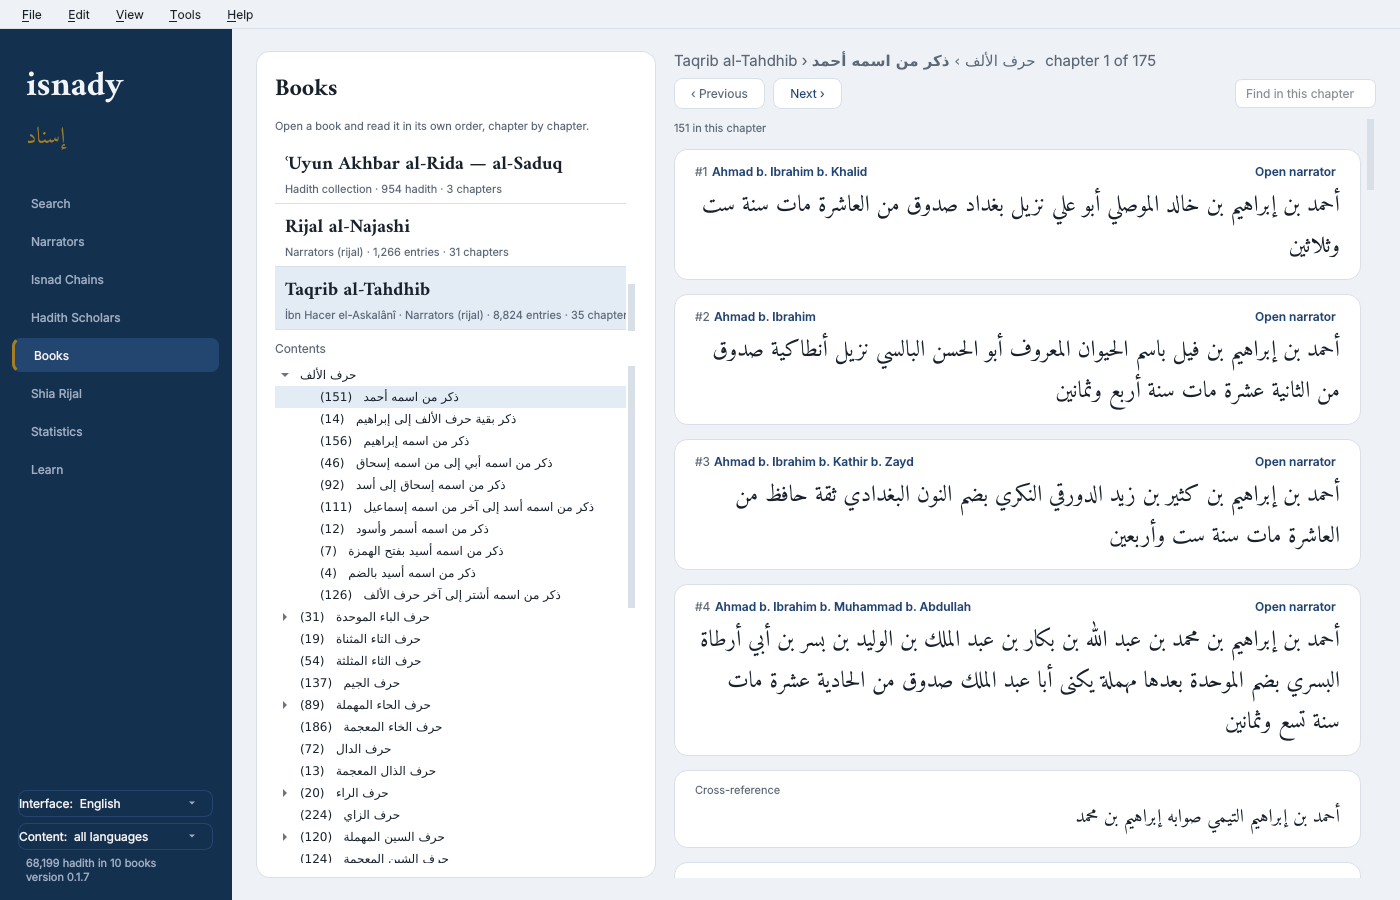
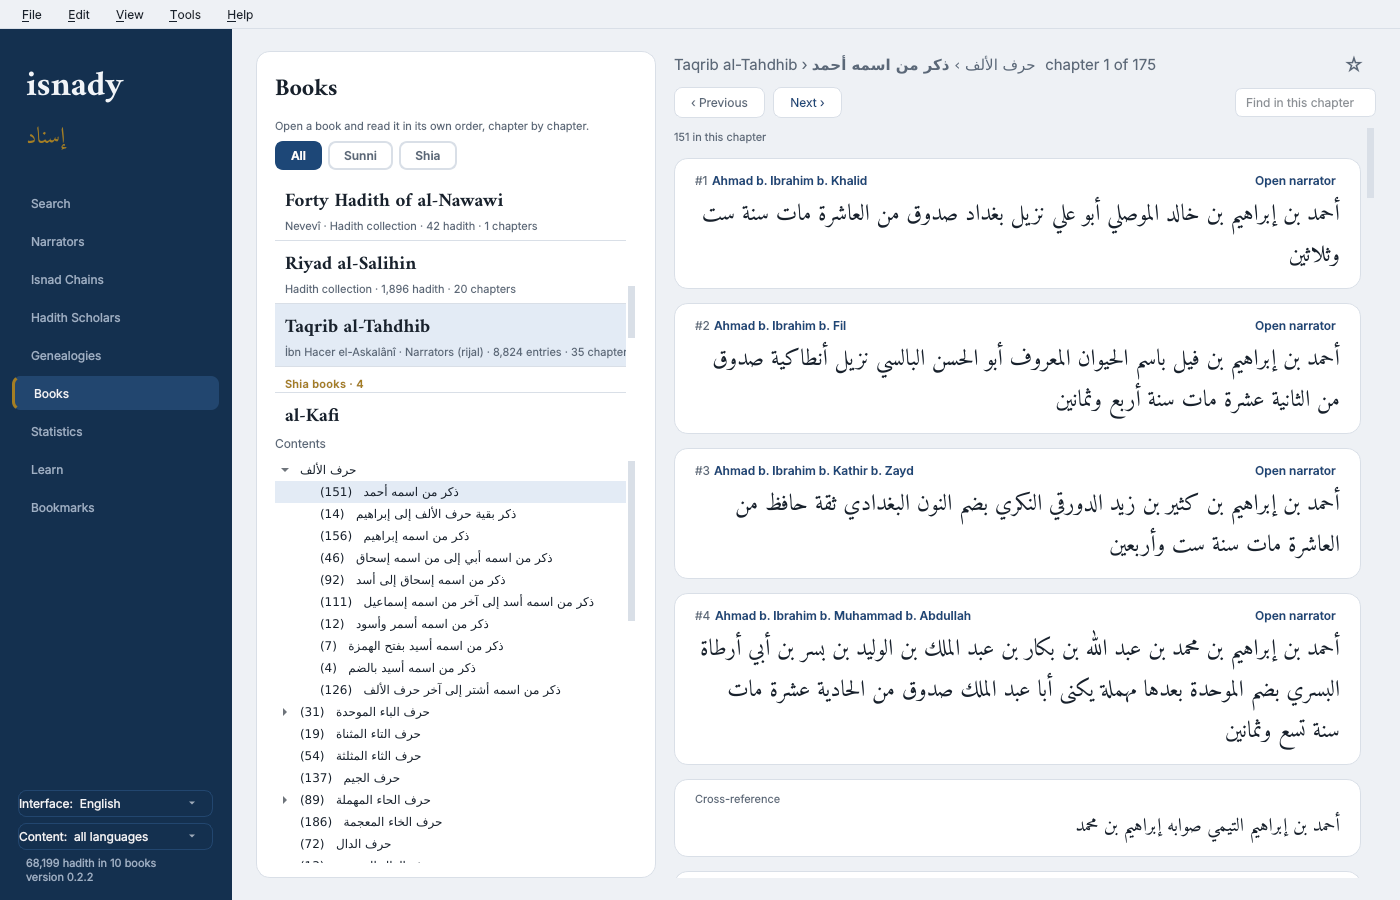
v0.2.2: genealogies, bookmarks and a colourful Learn page
Genealogies (new section in the sidebar, iy tree): the prophets from Adam to Muhammad (peace be upon him) and Quraysh with the Prophet's family, written from the Sunni sources and marked by their strength - the Qur'an where it names a relation, al-Bukhari for the lineage up to 'Adnan, Ibn Hisham, Ibn Sa'd, al-Tabari, Ibn Kathir, Mus'ab al-Zubayri and Ibn Hazm; the names between Adam and Ibrahim and between Isma'il and 'Adnan are said to be the historians' only; gaps drawn dashed, disputed links in a dashed box with both reports. A narrator's family read from the narrators' own names (1,147 father-son links) and his line of learning from the imported chains.

Bookmarks (new section, iy bookmark): a star on every hadith, narrator, scholar, glossary term, book chapter and genealogy node; nested folders, one bookmark in many folders by drag and drop, notes, search, export and import as JSON; stable references survive a reimport.

Learn in colour: each category has its own colour and sign, the short definition in a tinted box, related terms coloured by category. Interface texts 1,298, Turkish and Arabic complete.

README (GitHub, PyPI, npm): every screenshot retaken; tools/make_screenshots.py also makes the Genealogies and Bookmarks pictures and puts the user's own bookmarks back. Handoff and TODO updated.

diff --git a/js/index.js b/js/index.js
@@ -6,7 +6,7 @@
  * database (used by both the Python and JavaScript packages) exists.
  */
 
-export const version = "0.2.1";
+export const version = "0.2.2";
 export const name = "isnady";
 
 /** Returns basic package information. */

diff --git a/tools/make_screenshots.py b/tools/make_screenshots.py
@@ -182,6 +182,55 @@ w.learn_page._set_lang("en")
 w.learn_page.show_term("mursal")
 settle()
 w.grab().save(D + "learn.png")
+
+# Genealogies: the prophets around Ibrahim; a narrator's family (Salim b. 'Abdullah b. 'Umar)
+genealogy = w.genealogy_page
+w.nav.setCurrentRow(ROW["genealogy"])
+settle(1500)
+genealogy.show_view("prophets")
+genealogy.find.setText("Ibrahim")
+genealogy._find()
+settle(800)
+genealogy.view.centre("ibrahim")
+settle(400)
+w.grab().save(D + "genealogy.png")
+conn = w.search_page.connection()
+salim = conn.execute("SELECT id FROM persons WHERE name_ar LIKE 'سالم بن عبد الله بن عمر بن الخطاب%'").fetchone()
+if salim:
+    genealogy.find.clear()
+    genealogy.show_view("family", salim[0])
+    settle(1200)
+    genealogy.view.centre(f"p{salim[0]}")
+    settle(400)
+    w.grab().save(D + "genealogy-family.png")
+
+# Bookmarks: a few marked things in folders — the user's own bookmarks are put back afterwards
+from isnady.core import bookmarks  # noqa: E402
+from isnady.gui.bookmarks_page import HUB  # noqa: E402
+
+kept = bookmarks.path().read_bytes() if bookmarks.path().exists() else None
+store = bookmarks.Store()
+first = conn.execute("""SELECT h.id FROM hadiths h JOIN collections c ON c.id = h.collection_id
+                        WHERE c.key = 'bukhari' AND h.number = '1'""").fetchone()
+intention = store.ensure_path("Intention/Deeds")
+if first:
+    store.add("hadith", *bookmarks.hadith_ref(conn, first[0]), folder=intention.id,
+              note="Deeds are judged by intentions")
+if salim:
+    store.add("narrator", *bookmarks.narrator_ref(conn, salim[0]), folder=store.ensure_path("Families of narrators").id)
+store.add("scholar", "bukhari", "al-Bukhari", "محمد بن إسماعيل البخاري")
+store.add("term", "mursal", "mursal", "مرسل", folder=intention.id)
+store.save()
+HUB.changed.emit()
+w.nav.setCurrentRow(ROW["bookmarks"])
+settle(1200)
+w.grab().save(D + "bookmarks.png")
+if kept is None:
+    bookmarks.path().unlink()
+else:
+    bookmarks.path().write_bytes(kept)
+HUB.changed.emit()
+
 prefs("Reading text", "preferences.png", (900, 660))
 prefs("Data sources", "data-sources.png", (1100, 900))
 prefs("Books and languages", "books-languages.png", (1000, 640))

diff --git a/src/isnady/gui/genealogy_page.py b/src/isnady/gui/genealogy_page.py
@@ -319,10 +319,19 @@ class GenealogyPage(QWidget):
             self.find.setPlaceholderText(tr("Find in this tree: Ibrahim, Musa, Hashim, Ali …"))
             self.tree = core.written(key)
             self.view.show_tree(self.tree)
-            self.caption.setText(legend + "<br>" + tr("Sources: Ibn Hisham, al-Sira al-Nabawiyya; Ibn Sa'd, al-Tabaqat "
-                                                      "al-Kubra; al-Tabari, Tarikh; Ibn Kathir, Qisas al-Anbiya' and "
-                                                      "al-Bidaya wa-l-Nihaya; the Qur'an where it names a relation. "
-                                                      "Click a name for what the sources say."))
+            if key == "prophets":
+                about = tr("Sources: the Qur'an where it names a relation; al-Bukhari, Sahih (Manaqib al-Ansar: the "
+                           "Prophet's lineage up to 'Adnan); Ibn Hisham, al-Sira; Ibn Sa'd, al-Tabaqat; al-Tabari, "
+                           "Tarikh; Ibn Kathir, al-Bidaya wa-l-Nihaya. The names between Adam and Ibrahim and between "
+                           "Isma'il and 'Adnan are the historians'; they took them partly from the People of the Book, "
+                           "and neither the Qur'an nor an authentic hadith gives them. Click a name for what the "
+                           "sources say.")
+            else:
+                about = tr("Sources: Ibn Hisham, al-Sira; Ibn Sa'd, al-Tabaqat; Mus'ab al-Zubayri, Nasab Quraysh; "
+                           "Ibn Hazm, Jamharat Ansab al-'Arab. The line of the Prophet's family ﷺ down to the Imams "
+                           "is recorded by the Sunni genealogists too; that they are Imams is the Shia's belief and "
+                           "is shown as theirs. Click a name for what the sources say.")
+            self.caption.setText(legend + "<br>" + about)
             self._show_node(self.tree.nodes[self.tree.root])
             return
         self.find.setPlaceholderText(tr("A narrator: name, kunya or nisba — Arabic or Latin letters"))

diff --git a/src/isnady/__init__.py b/src/isnady/__init__.py
@@ -1,4 +1,4 @@
 """isnady — hadith search built around the isnad."""
 
-__version__ = "0.2.1"
+__version__ = "0.2.2"
 APP_NAME = "isnady"

diff --git a/README.md b/README.md
@@ -7,12 +7,12 @@
 
 <p align="center">
   <a href="https://pypi.org/project/isnady/">
-    <img src="https://img.shields.io/badge/PyPI-v0.2.1-1D4777?style=for-the-badge&logo=pypi&logoColor=white" alt="PyPI">
+    <img src="https://img.shields.io/badge/PyPI-v0.2.2-1D4777?style=for-the-badge&logo=pypi&logoColor=white" alt="PyPI">
   </a>
   <img src="https://img.shields.io/pypi/pyversions/isnady?style=for-the-badge&color=A47E24&logo=python&logoColor=white" alt="Python">
   <img src="https://img.shields.io/badge/Platform-Windows%20%7C%20Linux%20%7C%20macOS-5B6878?style=for-the-badge" alt="Platform">
   <a href="https://www.npmjs.com/package/isnady">
-    <img src="https://img.shields.io/badge/npm-v0.2.1-14304F?style=for-the-badge&logo=npm" alt="npm">
+    <img src="https://img.shields.io/badge/npm-v0.2.2-14304F?style=for-the-badge&logo=npm" alt="npm">
   </a>
   <a href="https://github.com/bayramkotan/isnady-data">
     <img src="https://img.shields.io/badge/data-isnady--data-2E6B4F?style=for-the-badge&logo=github" alt="isnady-data">
@@ -44,7 +44,7 @@
   <img src="https://raw.githubusercontent.com/bayramkotan/isnady/main/assets/screenshots/search-arabic.png" alt="Searching النيات finds بالنيات in Sahih al-Bukhari 1, with the chain above the text" width="850">
 </p>
 
-> **Pre-alpha (0.2.1).** Search, chains of transmission, narrators, books, scholars, statistics and
+> **Pre-alpha (0.2.2).** Search, chains of transmission, narrators, books, scholars, statistics and
 > the glossary work today, Sunni and Shia, on data you import in one click. Everything is built in
 > the open, one piece at a time.
 
@@ -585,10 +585,20 @@ Four trees, drawn so they can be zoomed, moved and clicked (**Genealogies** in t
 
 | Tree | What it shows |
 |---|---|
-| **The prophets** | From Adam to Muhammad ﷺ as the classical historians give it — Ibn Hisham, Ibn Sa'd, al-Tabari, Ibn Kathir: Nuh, Ibrahim and his sons, the prophets of the Children of Israel, the line of Isma'il to 'Adnan and on to the Prophet ﷺ. A link whose generations are not known is drawn dashed; a report the sources differ on has a dashed box and says so |
+| **The prophets** | From Adam to Muhammad ﷺ as the Qur'an, al-Bukhari and the classical historians give it — Ibn Hisham, Ibn Sa'd, al-Tabari, Ibn Kathir: Nuh, Ibrahim and his sons, the prophets of the Children of Israel, the line of Isma'il to 'Adnan and on to the Prophet ﷺ. A link whose generations are not known is drawn dashed; a report the sources differ on has a dashed box and says so |
 | **Quraysh and the Prophet's family** | From Ka'b b. Lu'ayy: the Prophet's family ﷺ, the lineages of the four caliphs joining his, the Umayyads, and the Imams of the Shia |
 | **A narrator's family** | Read from the narrators' own names: "X b. Y b. Z" is the son of "Y b. Z" when exactly one narrator of that name, of the same tradition and of an earlier or the same generation, is found — over a thousand such links in the Taqrib and al-Najashi (Ibn 'Umar's sons and grandsons, the family of al-Zubayr …). A reading of the names, said so on the page |
 | **A narrator's line of learning** | His teachers above him and theirs, his students below him and theirs, the most frequent at each step, counted from the imported chains |
+
+**Where the written trees come from.** Sunni sources, each link marked with how strong its source is: the Qur'an
+where it names a relation (Ibrahim's sons Isma'il and Ishaq, Ya'qub …); al-Bukhari's *Sahih* (Manaqib al-Ansar,
+the Prophet's lineage ﷺ up to 'Adnan, on which the scholars agree); the sira and history works (Ibn Hisham, Ibn
+Sa'd, al-Tabari, Ibn Kathir); the genealogists of Quraysh (Mus'ab al-Zubayri, Ibn Hazm). The names between Adam
+and Ibrahim and between Isma'il and 'Adnan are the historians' only — they took them partly from the People of the
+Book, and neither the Qur'an nor an authentic hadith gives them; the page says so on those names. The Imams of the
+Shia are shown as the line of the Prophet's family ﷺ that the Sunni genealogists record too; that they are Imams
+is the Shia's belief, shown as theirs (where the Sunni historians differ — a son of al-Hasan al-'Askari — the box
+is dashed and both are given).
 
 Click a name for what the sources say about it; a narrator opens on the Narrators page, which has the links to
 his family and his line of learning too. `iy tree prophets`, `iy tree prophets Musa`, `iy tree family "Ibn

diff --git a/js/README.md b/js/README.md
@@ -8,12 +8,12 @@
 
 <p align="center">
   <a href="https://pypi.org/project/isnady/">
-    <img src="https://img.shields.io/badge/PyPI-v0.2.1-1D4777?style=for-the-badge&logo=pypi&logoColor=white" alt="PyPI">
+    <img src="https://img.shields.io/badge/PyPI-v0.2.2-1D4777?style=for-the-badge&logo=pypi&logoColor=white" alt="PyPI">
   </a>
   <img src="https://img.shields.io/pypi/pyversions/isnady?style=for-the-badge&color=A47E24&logo=python&logoColor=white" alt="Python">
   <img src="https://img.shields.io/badge/Platform-Windows%20%7C%20Linux%20%7C%20macOS-5B6878?style=for-the-badge" alt="Platform">
   <a href="https://www.npmjs.com/package/isnady">
-    <img src="https://img.shields.io/badge/npm-v0.2.1-14304F?style=for-the-badge&logo=npm" alt="npm">
+    <img src="https://img.shields.io/badge/npm-v0.2.2-14304F?style=for-the-badge&logo=npm" alt="npm">
   </a>
   <a href="https://github.com/bayramkotan/isnady-data">
     <img src="https://img.shields.io/badge/data-isnady--data-2E6B4F?style=for-the-badge&logo=github" alt="isnady-data">
@@ -45,7 +45,7 @@
   <img src="https://raw.githubusercontent.com/bayramkotan/isnady/main/assets/screenshots/search-arabic.png" alt="Searching النيات finds بالنيات in Sahih al-Bukhari 1, with the chain above the text" width="850">
 </p>
 
-> **Pre-alpha (0.2.1).** Search, chains of transmission, narrators, books, scholars, statistics and
+> **Pre-alpha (0.2.2).** Search, chains of transmission, narrators, books, scholars, statistics and
 > the glossary work today, Sunni and Shia, on data you import in one click. Everything is built in
 > the open, one piece at a time.
 
@@ -599,10 +599,20 @@ Four trees, drawn so they can be zoomed, moved and clicked (**Genealogies** in t
 
 | Tree | What it shows |
 |---|---|
-| **The prophets** | From Adam to Muhammad ﷺ as the classical historians give it — Ibn Hisham, Ibn Sa'd, al-Tabari, Ibn Kathir: Nuh, Ibrahim and his sons, the prophets of the Children of Israel, the line of Isma'il to 'Adnan and on to the Prophet ﷺ. A link whose generations are not known is drawn dashed; a report the sources differ on has a dashed box and says so |
+| **The prophets** | From Adam to Muhammad ﷺ as the Qur'an, al-Bukhari and the classical historians give it — Ibn Hisham, Ibn Sa'd, al-Tabari, Ibn Kathir: Nuh, Ibrahim and his sons, the prophets of the Children of Israel, the line of Isma'il to 'Adnan and on to the Prophet ﷺ. A link whose generations are not known is drawn dashed; a report the sources differ on has a dashed box and says so |
 | **Quraysh and the Prophet's family** | From Ka'b b. Lu'ayy: the Prophet's family ﷺ, the lineages of the four caliphs joining his, the Umayyads, and the Imams of the Shia |
 | **A narrator's family** | Read from the narrators' own names: "X b. Y b. Z" is the son of "Y b. Z" when exactly one narrator of that name, of the same tradition and of an earlier or the same generation, is found — over a thousand such links in the Taqrib and al-Najashi (Ibn 'Umar's sons and grandsons, the family of al-Zubayr …). A reading of the names, said so on the page |
 | **A narrator's line of learning** | His teachers above him and theirs, his students below him and theirs, the most frequent at each step, counted from the imported chains |
+
+**Where the written trees come from.** Sunni sources, each link marked with how strong its source is: the Qur'an
+where it names a relation (Ibrahim's sons Isma'il and Ishaq, Ya'qub …); al-Bukhari's *Sahih* (Manaqib al-Ansar,
+the Prophet's lineage ﷺ up to 'Adnan, on which the scholars agree); the sira and history works (Ibn Hisham, Ibn
+Sa'd, al-Tabari, Ibn Kathir); the genealogists of Quraysh (Mus'ab al-Zubayri, Ibn Hazm). The names between Adam
+and Ibrahim and between Isma'il and 'Adnan are the historians' only — they took them partly from the People of the
+Book, and neither the Qur'an nor an authentic hadith gives them; the page says so on those names. The Imams of the
+Shia are shown as the line of the Prophet's family ﷺ that the Sunni genealogists record too; that they are Imams
+is the Shia's belief, shown as theirs (where the Sunni historians differ — a son of al-Hasan al-'Askari — the box
+is dashed and both are given).
 
 Click a name for what the sources say about it; a narrator opens on the Narrators page, which has the links to
 his family and his line of learning too. `iy tree prophets`, `iy tree prophets Musa`, `iy tree family "Ibn

diff --git a/CHANGELOG.md b/CHANGELOG.md
@@ -3,7 +3,7 @@
 Every release of isnady carries one version number on GitHub, PyPI and npm. The text of each GitHub Release
 is taken from its section here.
 
-## [Unreleased]
+## [0.2.2] — 2026-10-11
 
 - **Genealogies** (new section in the sidebar, `iy tree`): four trees one can zoom, move and click — **the
   prophets** from Adam to Muhammad ﷺ as Ibn Hisham, Ibn Sa'd, al-Tabari and Ibn Kathir give it (unknown generations
@@ -12,7 +12,12 @@ is taken from its section here.
   the narrators' own names ("X b. Y b. Z" is the son of "Y b. Z" when exactly one narrator of that name, tradition
   and an earlier or the same generation is found — 1,147 links in the Taqrib and al-Najashi); **a narrator's line of
   learning**, his teachers above and his students below, from the imported chains. The Narrators page links to his
-  family and his line of learning. `core/genealogy.py`, `assets/genealogy/trees.json`.
+  family and his line of learning. The written trees name their Sunni sources by strength — the Qur'an, al-Bukhari
+  (the Prophet's lineage ﷺ to 'Adnan), the sira and history works, the genealogists of Quraysh — and say where a
+  name rests on the historians alone (between Adam and Ibrahim, between Isma'il and 'Adnan). `core/genealogy.py`,
+  `assets/genealogy/trees.json`.
+- **README screenshots** all retaken (the ☆ on every page, the two new sections); `tools/make_screenshots.py` makes
+  the Genealogies and Bookmarks pictures too, putting back the user's own bookmarks afterwards.
 - **Bookmarks** (new section, `iy bookmark`): a ☆ on every hadith card, narrator, scholar, term of Learn and chapter
   of Books; the Bookmarks page keeps them in folders of your own (nested, one bookmark in many folders, dragged onto
   a folder), with notes, found by words or kind, opened with a click, exported and imported as a file
